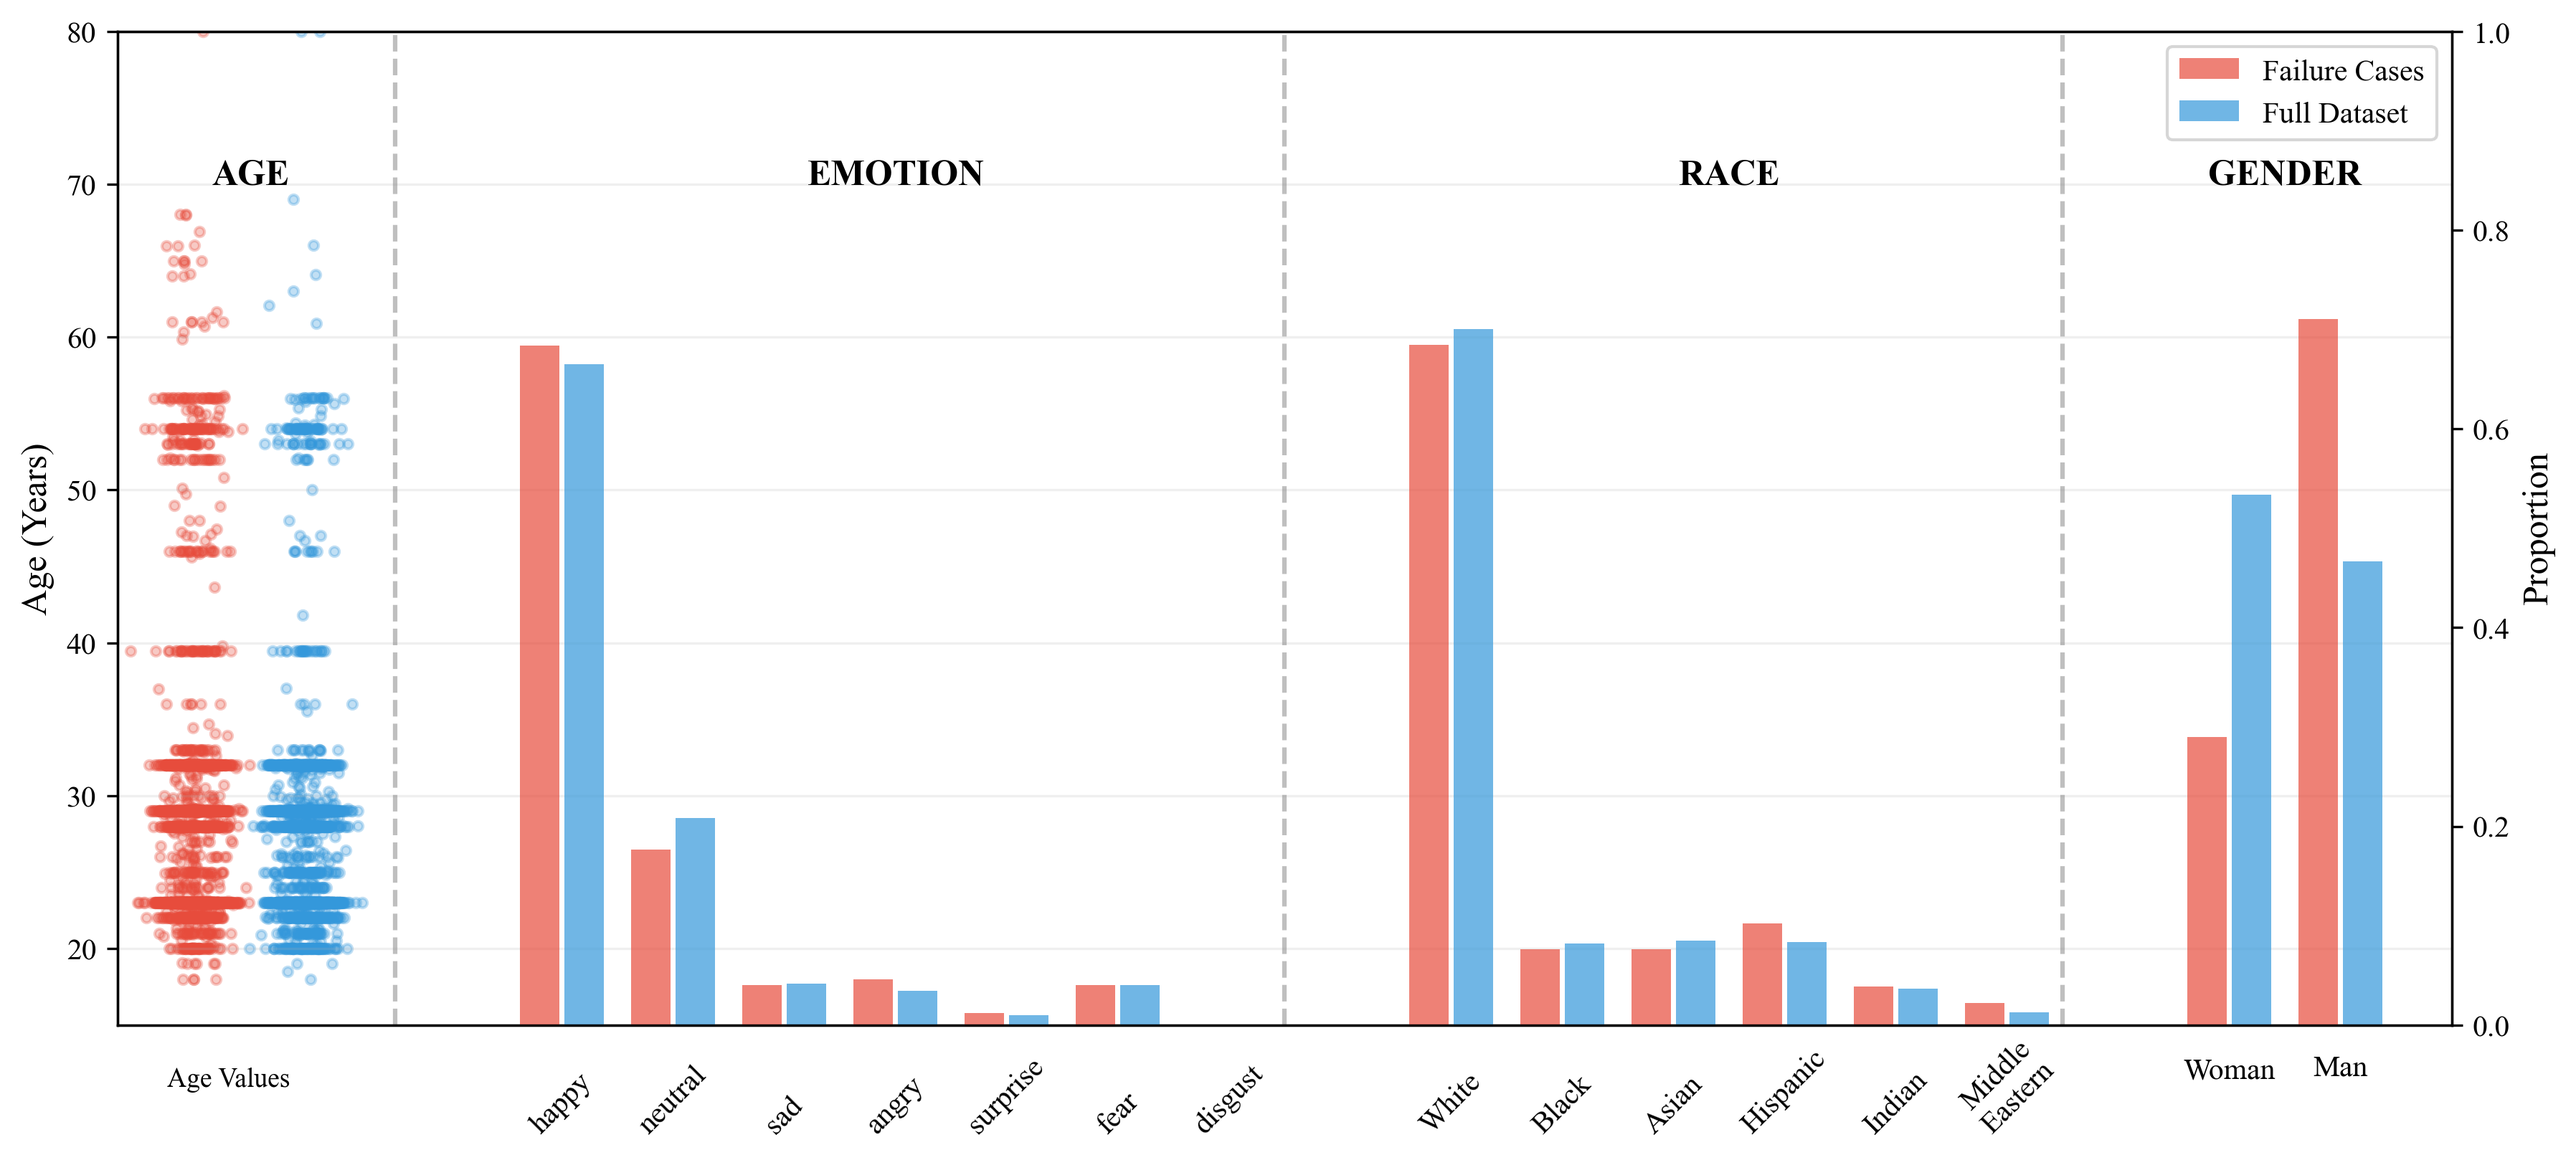
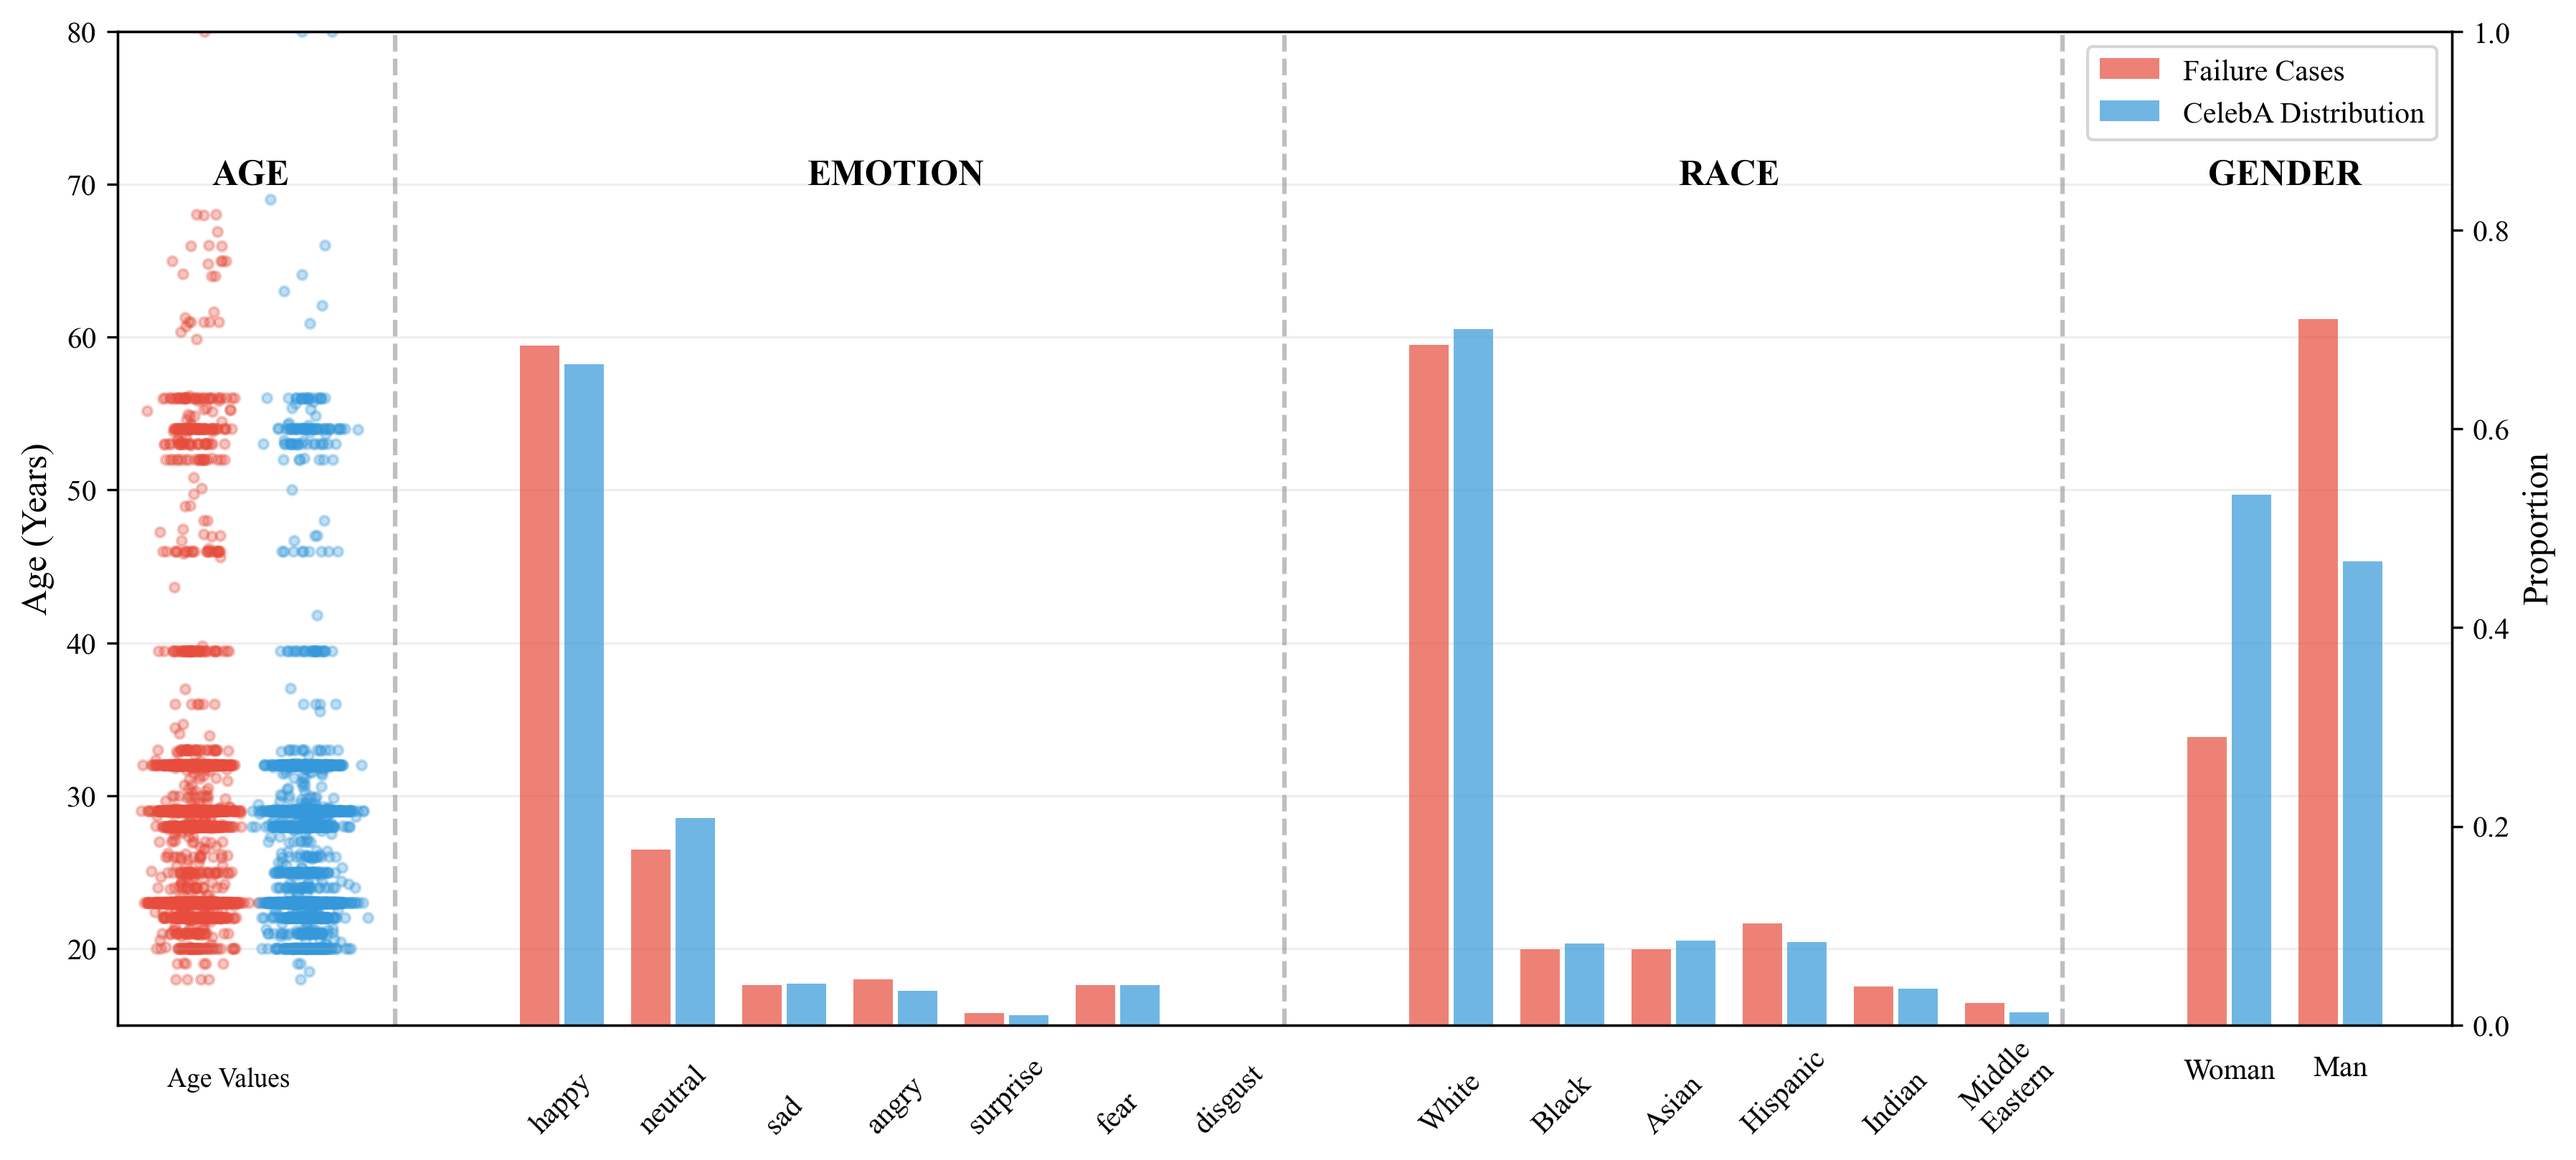
update legend

diff --git a/failure_analysis/visualize_utility_distributions.py b/failure_analysis/visualize_utility_distributions.py
@@ -397,7 +397,7 @@ def create_comprehensive_plot(combined_df, significance_results, output_dir):
     # Add legend
     legend_elements = [
         plt.Rectangle((0, 0), 1, 1, fc=failure_color, alpha=0.7, label='Failure Cases'),
-        plt.Rectangle((0, 0), 1, 1, fc=full_color, alpha=0.7, label='Full Dataset')
+        plt.Rectangle((0, 0), 1, 1, fc=full_color, alpha=0.7, label='CelebA Distribution')
     ]
     ax.legend(handles=legend_elements, loc='upper right', prop={'family': 'Times New Roman'})
     
